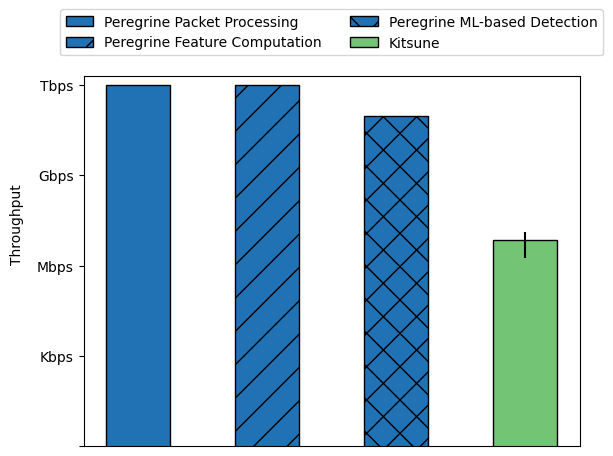
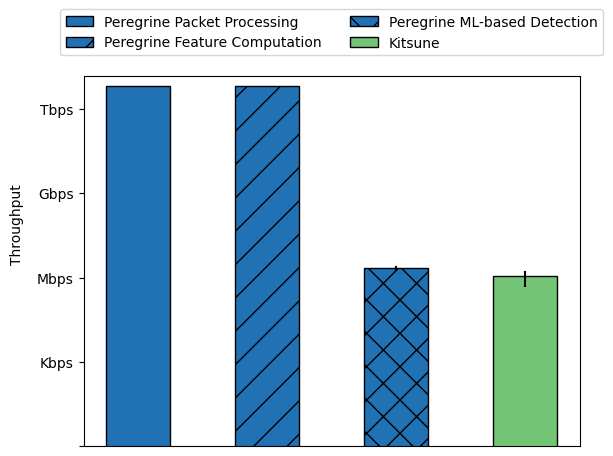
added ddos-hoic sampling rate bench

diff --git a/testbed/plot-sampling-rate.py b/testbed/plot-sampling-rate.py
@@ -1,0 +1,95 @@
+#!/usr/bin/env python3
+
+import util
+import hosts
+import os
+import argparse
+import glob
+import statistics
+
+import numpy as np
+import matplotlib as mpl
+import matplotlib.pyplot as plt
+
+SCRIPT_DIR        = os.path.dirname(os.path.realpath(__file__))
+TEST_RESULTS_DIR  = f'{SCRIPT_DIR}/results'
+PLOT              = f'{TEST_RESULTS_DIR}/sampling-rate-summary.png'
+SAMPLING_RATE_DIR = f'{TEST_RESULTS_DIR}/sampling-rate/'
+
+COLOR = '#2171B5'
+
+def get_data():
+	data_files_pattern = f'{SAMPLING_RATE_DIR}/*.csv'
+	data_files = glob.glob(data_files_pattern)
+	
+	data = {}
+
+	for data_file in data_files:
+		basename = os.path.basename(data_file)
+		attack   = os.path.splitext(basename)[0]
+
+		with open(data_file, 'r') as f:
+			lines = f.readlines()
+			bps = -1
+			for line in lines:
+				if line and line[0] == '#':
+					continue
+
+				line = line.rstrip().split(',')
+				assert len(line) == 5
+
+				sampling_rate = int(line[0])
+				tg_rate       = float(line[1])
+				rx_rate_bps   = int(line[2])
+				rx_rate_pps   = int(line[3])
+				tx_rate_pps   = int(line[4])
+
+				if sampling_rate not in data:
+					data[sampling_rate] = []
+				
+				data[sampling_rate].append(rx_rate_bps)
+
+	stats = []
+	for sampling_rate in data.keys():
+		bps = data[sampling_rate]
+			
+		if len(data) > 1:
+			avg   = statistics.mean(bps)
+			stdev = statistics.stdev(bps)
+		else:
+			avg   = bps[0]
+			stdev = 0
+
+		stats.append((sampling_rate, avg, stdev))
+	
+	return stats
+
+def gen_plot(data):
+	fig, ax = plt.subplots()
+
+	x = np.arange(4)
+
+	sampling_rates = [ f'1/{d[0]}' for d in data ]
+	bps_avg        = [ d[1]/1e9 for d in data ]
+	bps_err        = [ d[2]/1e9 for d in data ]
+
+	colors = [ COLOR for _ in sampling_rates ]
+	labels = [ f'1/{sr}' for sr in sampling_rates ]
+
+	ax.bar(sampling_rates, bps_avg, yerr=bps_err, color=colors)
+	
+	ax.set_ylabel('Throughput (Gbps)')
+	ax.set_xlabel('Sampling rate')
+	ax.tick_params(axis='x', labelrotation=-45)
+	ax.set_yticks( [ 0, 20, 40, 60, 80, 100 ])
+	
+	# plt.show()
+	plt.savefig(PLOT, bbox_inches='tight')
+
+def plot():
+	data = get_data()
+	print(data)
+	gen_plot(data)
+
+if __name__ == '__main__':
+	plot()

diff --git a/testbed/plot-component-bench.py b/testbed/plot-component-bench.py
@@ -16,7 +16,8 @@ TEST_RESULTS_DIR   = f'{SCRIPT_DIR}/results'
 PLOT               = f'{TEST_RESULTS_DIR}/component-bench.png'
 KITSUNE_DATA       = f'{TEST_RESULTS_DIR}/kitsune/stats.csv'
 PEREGRINE_DATA_DIR = f'{TEST_RESULTS_DIR}/sampling-rate/'
-SAMPLING_RATE      = 65536
+REPORT_BYTES       = 162 # Bytes: 14B ethernet + 148B report header
+TOFINO_RATE        = 6.4e12 # bps
 
 COLORS = [
 	'#2171B5',
@@ -43,10 +44,13 @@ def get_kitsune_data():
 
 		assert len(line) == 8
 
-		bps_m     = int(line[4])
-		bps_avg   = int(line[5])
-		bps_stdev = int(line[6])
-		bps_M     = int(line[7])
+		pps_avg   = int(line[1])
+		pps_stdev = int(line[2])
+
+		# To compare Kitsune and Peregrine in a fair way,
+		# let's assume the same packet sizes.
+		bps_avg   = pps_avg * REPORT_BYTES * 8
+		bps_stdev = pps_stdev * REPORT_BYTES * 8
 		
 		return bps_avg, bps_stdev
 
@@ -76,9 +80,7 @@ def get_peregrine_ad_data():
 				rx_rate_pps   = int(line[3])
 				tx_rate_pps   = int(line[4])
 
-				if sampling_rate == SAMPLING_RATE:
-					bps = rx_rate_bps
-					break
+				bps = max(bps, tx_rate_pps * REPORT_BYTES * 8)
 
 			assert bps >= 0
 			data.append(bps)
@@ -145,10 +147,13 @@ def gen_plot(peregrine_pp_data,	peregrine_fc_data, peregrine_ad_data, kitsune_da
 	plt.savefig(PLOT, bbox_inches='tight')
 
 def plot():
-	peregrine_pp_data = (1e12, 0)
-	peregrine_fc_data = (1e12, 0)
+	peregrine_pp_data = (TOFINO_RATE, 0)
+	peregrine_fc_data = (TOFINO_RATE, 0)
 	peregrine_ad_data = get_peregrine_ad_data()
 	kitsune_data      = get_kitsune_data()
+
+	print('Peregrine:', peregrine_ad_data)
+	print('Kitsune:  ', kitsune_data)
 	
 	gen_plot(
 		peregrine_pp_data,
